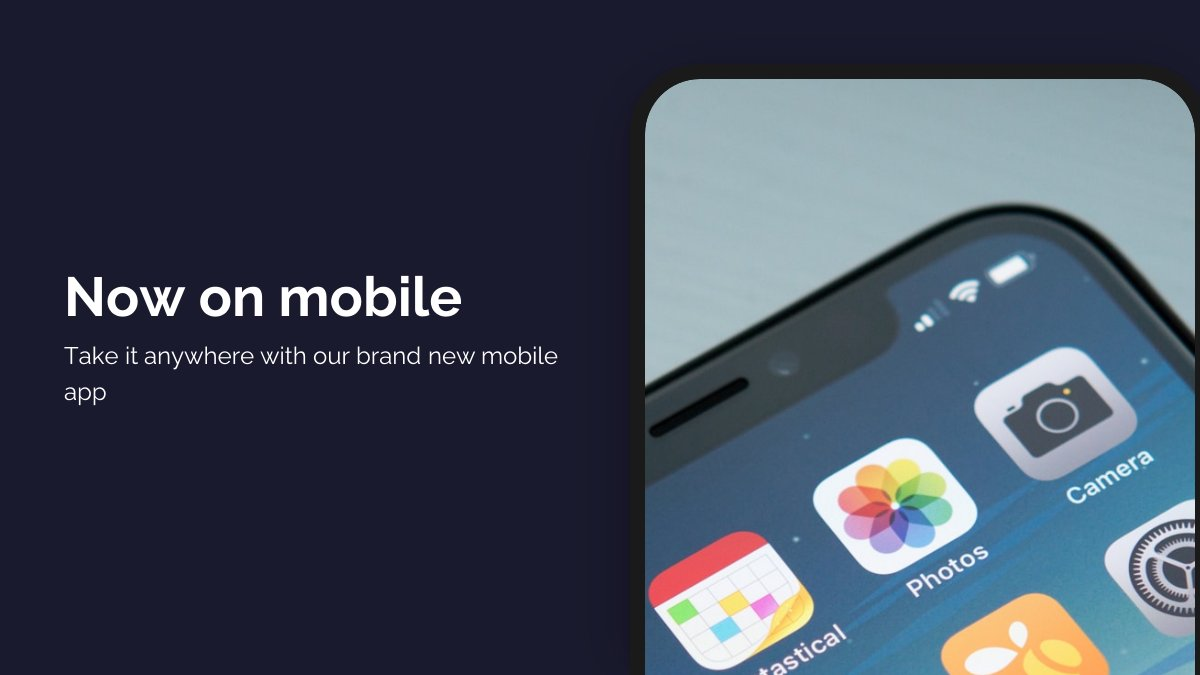
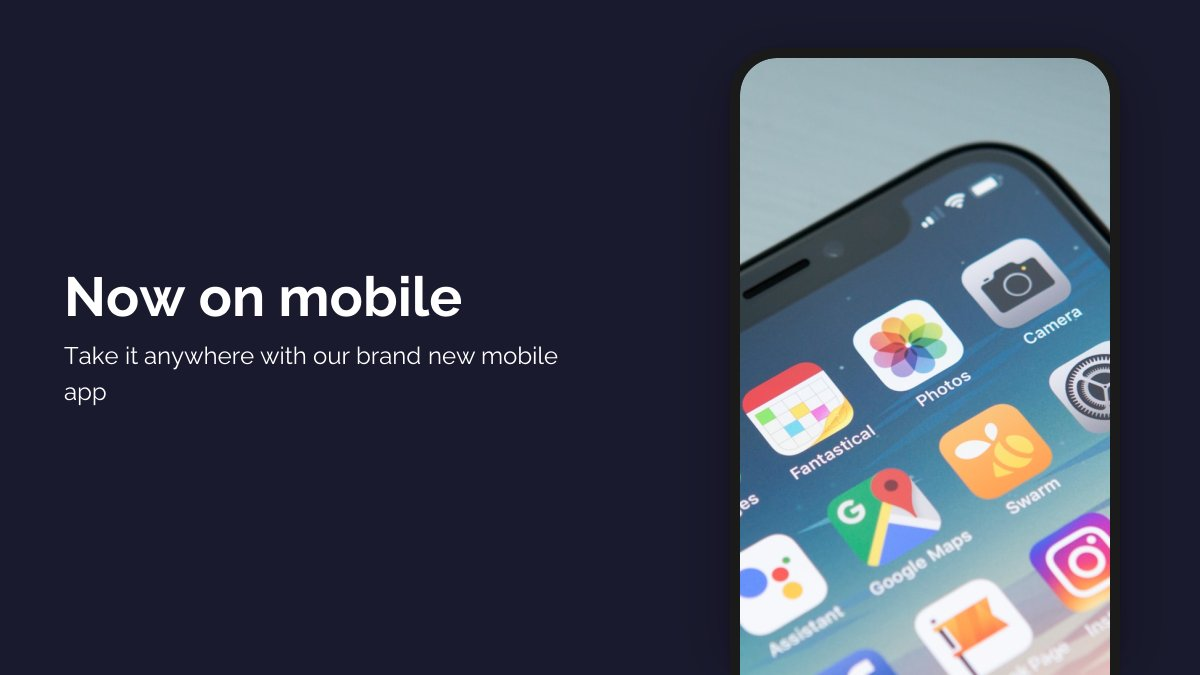
fix: align split-mobile template positions and fix MobileFrame height
- Widen split-mobile phone in landscape (300→390px) and square (420→460px)
- Extend portrait phone height for proper bottom-bleed
- Fix MobileFrame to use maxHeight for explicit image sizing (matching BrowserFrame)
- Delete old demo images, regenerate for new 5-template library

diff --git a/src/lib/templates/canvas-defaults.ts b/src/lib/templates/canvas-defaults.ts
@@ -126,7 +126,7 @@ export const CANVAS_DEFAULTS: Record<string, { name: string; config: CanvasTempl
         landscape: {
           objects: [
             { ...textObj("title", { fontSize: 72, verticalAlign: "bottom", fontWeight: 700 }), x: 64, y: 263, width: 502, height: 67, zIndex: 2 },
-            { id: "image", type: "image", name: "image", x: 770, y: 64, width: 300, height: 547, opacity: 1, zIndex: 1, imageFrame: "mobile", imageFrameColor: "#1A1A1A", objectFit: "cover" },
+            { id: "image", type: "image", name: "image", x: 730, y: 48, width: 390, height: 700, opacity: 1, zIndex: 1, imageFrame: "mobile", imageFrameColor: "#1A1A1A", objectFit: "cover" },
             { ...textObj("description", { lineHeight: 1.5 }), x: 64, y: 338, width: 502, height: 153, fontSize: 24, zIndex: 3 },
             { id: "logo", type: "logo", name: "logo", x: 64, y: 199, width: 418, height: 48, opacity: 1, zIndex: 4, objectFit: "contain" },
           ],
@@ -134,14 +134,14 @@ export const CANVAS_DEFAULTS: Record<string, { name: string; config: CanvasTempl
         square: {
           objects: [
             { ...textObj("title", { fontSize: 72, verticalAlign: "bottom", fontWeight: 700 }), x: 59, y: 379, width: 429, height: 186, zIndex: 2 },
-            { id: "image", type: "image", name: "image", x: 590, y: 96, width: 420, height: 890, opacity: 1, zIndex: 1, imageFrame: "mobile", imageFrameColor: "#1A1A1A", objectFit: "cover" },
+            { id: "image", type: "image", name: "image", x: 570, y: 80, width: 460, height: 1100, opacity: 1, zIndex: 1, imageFrame: "mobile", imageFrameColor: "#1A1A1A", objectFit: "cover" },
             { ...textObj("description", { lineHeight: 1.5 }), x: 59, y: 585, width: 429, height: 401, fontSize: 24, zIndex: 3 },
             { id: "logo", type: "logo", name: "logo", x: 59, y: 311, width: 406, height: 48, opacity: 1, zIndex: 4, objectFit: "contain" },
           ],
         },
         portrait: {
           objects: [
-            { id: "image", type: "image", name: "image", x: 578, y: 91, width: 602, height: 1752, opacity: 1, zIndex: 1, imageFrame: "mobile", imageFrameColor: "#1A1A1A", objectFit: "cover" },
+            { id: "image", type: "image", name: "image", x: 578, y: 91, width: 602, height: 2000, opacity: 1, zIndex: 1, imageFrame: "mobile", imageFrameColor: "#1A1A1A", objectFit: "cover" },
             { ...textObj("title", { fontSize: 72, verticalAlign: "bottom", fontWeight: 700 }), x: 48, y: 726, width: 458, height: 200, zIndex: 2 },
             { ...textObj("description", { lineHeight: 1.5 }), x: 48, y: 944, width: 458, height: 899, fontSize: 24, zIndex: 3 },
             { id: "logo", type: "logo", name: "logo", x: 48, y: 672, width: 431, height: 48, opacity: 1, zIndex: 4, objectFit: "contain" },

diff --git a/src/lib/templates/components/MobileFrame.tsx b/src/lib/templates/components/MobileFrame.tsx
@@ -14,6 +14,8 @@ export function MobileFrame({ imageBase64, primaryColor, width, maxHeight, flush
   const cornerRadius = Math.round(width * 0.12)
   const innerRadius = Math.max(0, cornerRadius - bezel)
   const screenWidth = width - bezel * 2
+  const totalBezel = flush ? bezel : bezel * 2
+  const imageHeight = maxHeight ? maxHeight - totalBezel : undefined
 
   return (
     <div
@@ -52,6 +54,7 @@ export function MobileFrame({ imageBase64, primaryColor, width, maxHeight, flush
           style={{
             display: 'flex',
             width: `${screenWidth}px`,
+            height: imageHeight ? `${imageHeight}px` : undefined,
             objectFit: 'cover',
             objectPosition: 'top',
             borderRadius: flush
